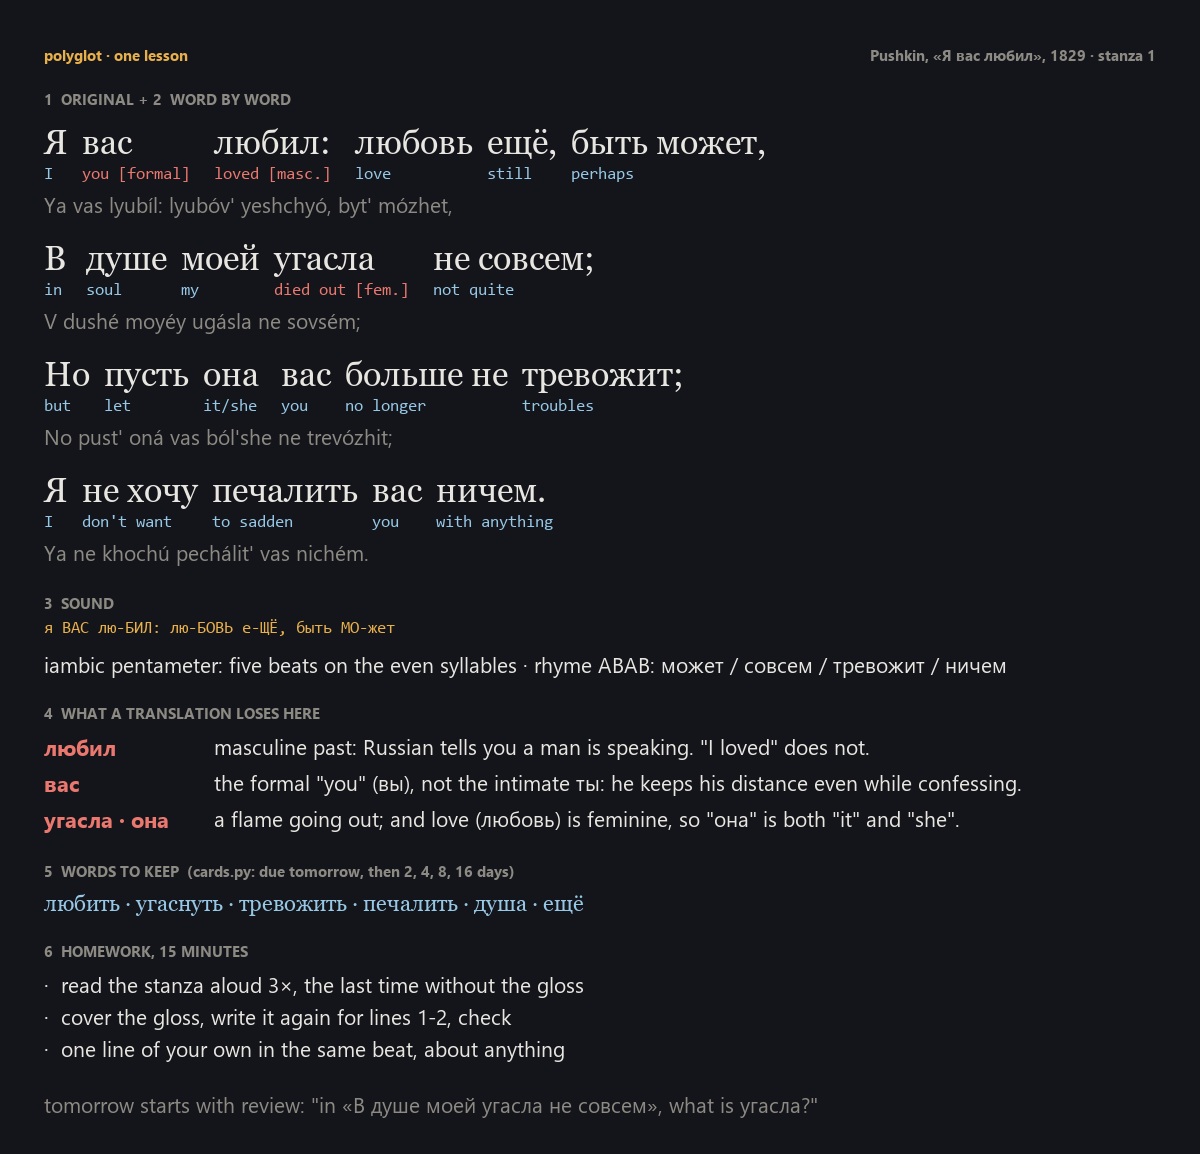
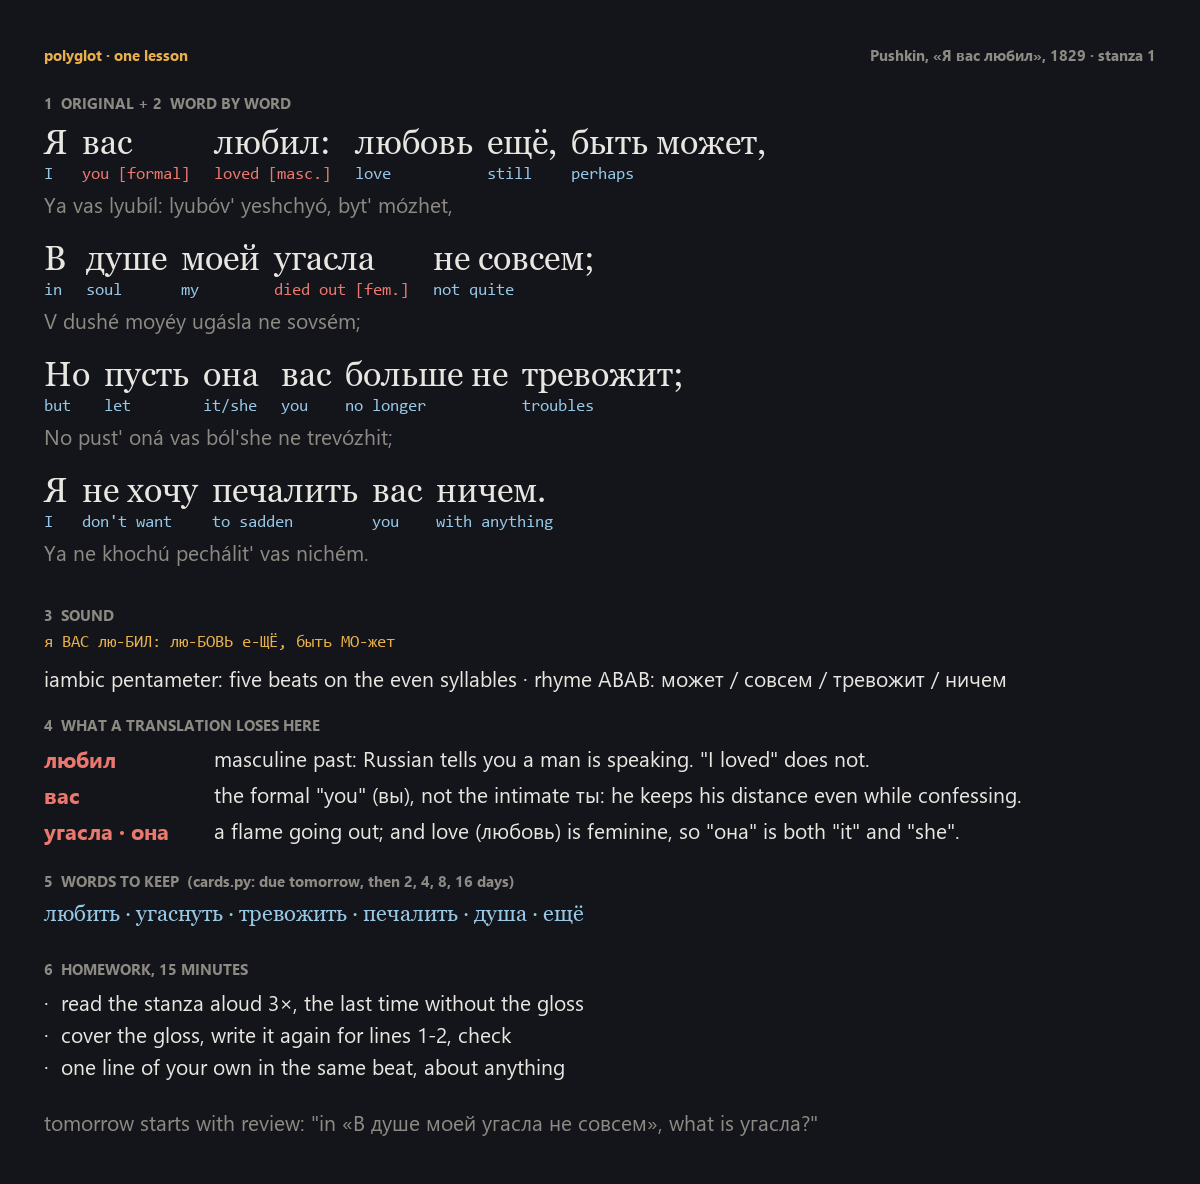
polyglot: make_card renders any lesson JSON, kind poem or skill
skill = music, code, maths: one small thing, what the hands do, what breaks for a beginner and why, cards to keep (1, 2, 4, 8, 16 days), 15-minute homework, tomorrow's review line. Text wraps inside the card; unknown kind is an error. Pushkin moved to pushkin_card.json, guitar C->Am draft example added. 6 new tests, red before render().

Claude-Session: https://claude.ai/code/session_01BgXyzoFJR4cXkBkuYX1Kmq

Changed region(s): [[0.0308, 0.0312, 0.8633, 0.9671], [0.74, 0.0312, 0.9558, 0.0624], [0.37, 0.1872, 0.4933, 0.2496]]

diff --git a/polyglot/example/make_card.py b/polyglot/example/make_card.py
@@ -1,12 +1,25 @@
-"""Render example/pushkin_lesson.png: one polyglot lesson on the first stanza of Pushkin's «Я вас любил» (1829).
-    pip install pillow ; python example/make_card.py
+"""Render one polyglot lesson as a picture, from a lesson JSON.
+
+    pip install pillow
+    python example/make_card.py                       # both examples: pushkin_lesson.png, guitar_lesson.png
+    python example/make_card.py my_lesson.json -o out.png
+
+kind "poem": the original + word by word, sound, what a translation loses, words to keep, homework.
+kind "skill" (music, code, maths): 1 one small thing, 2 how it feels / sounds / looks (what the hands do),
+3 what usually breaks for a beginner and why, 4 what to keep (cards.py: tomorrow, then 2, 4, 8, 16 days),
+5 homework, 15 minutes; then "tomorrow starts with review". A skill lesson's "cards" have the fields cards.py reads.
 """
+import argparse
+import json
 import os
+import sys
+
 from PIL import Image, ImageDraw, ImageFont
 
 HERE = os.path.dirname(os.path.abspath(__file__))
 W, PAD = 1200, 44
 BG, FG, DIM, ACC, GLS, RED = (20, 21, 27), (232, 230, 224), (140, 138, 130), (232, 176, 74), (150, 200, 230), (235, 120, 110)
+LAST_WIDTHS = []                       # the width of every line drawn by the last render (the tests read it)
 
 
 def font(names, size):
@@ -25,77 +38,122 @@ SANS_B = font(["segoeuib.ttf", "DejaVuSans-Bold.ttf"], 22)
 MONO = font(["consola.ttf", "DejaVuSansMono.ttf"], 17)
 HEAD = font(["segoeuib.ttf", "DejaVuSans-Bold.ttf"], 15)
 
-STANZA = [
-    [("Я", "I"), ("вас", "you [formal]"), ("любил:", "loved [masc.]"), ("любовь", "love"), ("ещё,", "still"),
-     ("быть может,", "perhaps")],
-    [("В", "in"), ("душе", "soul"), ("моей", "my"), ("угасла", "died out [fem.]"), ("не совсем;", "not quite")],
-    [("Но", "but"), ("пусть", "let"), ("она", "it/she"), ("вас", "you"), ("больше не", "no longer"), ("тревожит;", "troubles")],
-    [("Я", "I"), ("не хочу", "don't want"), ("печалить", "to sadden"), ("вас", "you"), ("ничем.", "with anything")],
-]
-TRANSLIT = ["Ya vas lyubíl: lyubóv' yeshchyó, byt' mózhet,", "V dushé moyéy ugásla ne sovsém;",
-            "No pust' oná vas ból'she ne trevózhit;", "Ya ne khochú pechálit' vas nichém."]
-LOSES = [
-    ("любил", "masculine past: Russian tells you a man is speaking. \"I loved\" does not."),
-    ("вас", "the formal \"you\" (вы), not the intimate ты: he keeps his distance even while confessing."),
-    ("угасла · она", "a flame going out; and love (любовь) is feminine, so \"она\" is both \"it\" and \"she\"."),
-]
-CARDS = "любить · угаснуть · тревожить · печалить · душа · ещё"
-HOMEWORK = ["read the stanza aloud 3×, the last time without the gloss",
-            "cover the gloss, write it again for lines 1-2, check",
-            "one line of your own in the same beat, about anything"]
+
+class Pen:
+    """Draws top to bottom, wraps every text to the card's width, and logs what it wrote."""
+
+    def __init__(self, d):
+        self.d, self.y, self.log = d, PAD, []
+
+    def text(self, s, f, fill, x=PAD, dy=32, right=W - PAD):
+        words, line, lines = s.split(" "), "", []
+        for w in words:
+            if line and self.d.textlength(line + " " + w, font=f) > right - x:
+                lines.append(line)
+                line = w
+            else:
+                line = w if not line else line + " " + w           # keeps runs of spaces (chord notation)
+        lines.append(line)
+        for ln in lines:
+            self.d.text((x, self.y), ln, font=f, fill=fill)
+            LAST_WIDTHS.append(x + self.d.textlength(ln, font=f))
+            self.log.append(ln)
+            self.y += dy
+        return len(lines)
+
+    def head(self, s):
+        self.y += 18
+        self.text(s, HEAD, DIM, dy=30)
 
 
-def main():
-    img = Image.new("RGB", (W, 1500), BG)
-    d = ImageDraw.Draw(img)
-    y = PAD
-    d.text((PAD, y), "polyglot · one lesson", font=HEAD, fill=ACC)
-    d.text((W - PAD, y), "Pushkin, «Я вас любил», 1829 · stanza 1", font=HEAD, fill=DIM, anchor="ra")
-    y += 44
-    d.text((PAD, y), "1  ORIGINAL + 2  WORD BY WORD", font=HEAD, fill=DIM)
-    y += 34
-    for line, tr in zip(STANZA, TRANSLIT):
+def _top(p, lesson):
+    p.d.text((PAD, p.y), lesson.get("tag", "polyglot · one lesson"), font=HEAD, fill=ACC)
+    p.d.text((W - PAD, p.y), lesson.get("source", ""), font=HEAD, fill=DIM, anchor="ra")
+    p.log += [lesson.get("tag", ""), lesson.get("source", "")]
+    p.y += 30
+
+
+def _poem(p, L):
+    p.head("1  ORIGINAL + 2  WORD BY WORD")
+    for line, tr in zip(L["lines"], L["translit"]):
         x = PAD
         for word, gloss in line:
-            ww = max(d.textlength(word + " ", font=SERIF), d.textlength(gloss + "  ", font=MONO))
-            d.text((x, y), word, font=SERIF, fill=FG)
-            d.text((x, y + 44), gloss, font=MONO, fill=RED if "[" in gloss else GLS)
+            ww = max(p.d.textlength(word + " ", font=SERIF), p.d.textlength(gloss + "  ", font=MONO))
+            p.d.text((x, p.y), word, font=SERIF, fill=FG)
+            p.d.text((x, p.y + 44), gloss, font=MONO, fill=RED if "[" in gloss else GLS)
             x += ww + 6
-        d.text((PAD, y + 68), tr, font=SANS, fill=DIM)
-        y += 116
-    y += 6
-    d.text((PAD, y), "3  SOUND", font=HEAD, fill=DIM)
-    y += 28
-    d.text((PAD, y), "я ВАС лю-БИЛ: лю-БОВЬ е-ЩЁ, быть МО-жет", font=MONO, fill=ACC)
-    y += 30
-    d.text((PAD, y), "iambic pentameter: five beats on the even syllables · rhyme ABAB: может / совсем / тревожит / ничем",
-           font=SANS, fill=FG)
-    y += 52
-    d.text((PAD, y), "4  WHAT A TRANSLATION LOSES HERE", font=HEAD, fill=DIM)
-    y += 30
-    for word, why in LOSES:
-        d.text((PAD, y), word, font=SANS_B, fill=RED)
-        d.text((PAD + 170, y), why, font=SANS, fill=FG)
-        y += 36
-    y += 20
-    d.text((PAD, y), "5  WORDS TO KEEP  (cards.py: due tomorrow, then 2, 4, 8, 16 days)", font=HEAD, fill=DIM)
-    y += 30
-    d.text((PAD, y), CARDS, font=SERIF_S, fill=GLS)
-    y += 50
-    d.text((PAD, y), "6  HOMEWORK, 15 MINUTES", font=HEAD, fill=DIM)
-    y += 30
-    for h in HOMEWORK:
-        d.text((PAD, y), "·  " + h, font=SANS, fill=FG)
-        y += 32
-    y += 24
-    d.text((PAD, y), "tomorrow starts with review: \"in «В душе моей угасла не совсем», what is угасла?\"",
-           font=SANS, fill=DIM)
-    y += PAD + 20
-    img = img.crop((0, 0, W, y))
-    out = os.path.join(HERE, "pushkin_lesson.png")
-    img.save(out)
-    print(out, img.size)
+        LAST_WIDTHS.append(x)
+        p.log.append(" ".join(w for w, _ in line))
+        p.y += 68
+        p.text(tr, SANS, DIM, dy=48)
+    p.head("3  SOUND")
+    p.text(L["sound"][0], MONO, ACC, dy=30)
+    p.text(L["sound"][1], SANS, FG)
+    p.head("4  WHAT A TRANSLATION LOSES HERE")
+    for word, why in L["loses"]:
+        top = p.y
+        p.d.text((PAD, top), word, font=SANS_B, fill=RED)
+        p.text(why, SANS, FG, x=PAD + 170, dy=36)
+    p.head("5  WORDS TO KEEP  (cards.py: due tomorrow, then 2, 4, 8, 16 days)")
+    p.text(L["keep"], SERIF_S, GLS, dy=40)
+    p.head("6  HOMEWORK, 15 MINUTES")
+    for h in L["homework"]:
+        p.text("·  " + h, SANS, FG)
+
+
+def _skill(p, L):
+    p.head("1  ONE SMALL THING")
+    p.text(L["thing"], SERIF_S, FG, dy=36)
+    if L.get("notation"):
+        p.text(L["notation"], MONO, ACC, dy=28)
+    p.head("2  HOW IT FEELS · WHAT THE HANDS DO")
+    for f in L["feel"]:
+        p.text("·  " + f, SANS, FG)
+    p.head("3  WHAT USUALLY BREAKS, AND WHY")
+    for what, why in L["breaks"]:
+        p.d.text((PAD, p.y), what, font=SANS_B, fill=RED)
+        p.log.append(what)
+        p.text(why, SANS, FG, x=PAD + 230, dy=34)
+    p.head("4  TO KEEP  (cards.py: review after 1, 2, 4, 8, 16 days)")
+    for c in L["cards"]:
+        p.d.text((PAD, p.y), c["word"], font=SANS_B, fill=GLS)
+        p.log.append(c["word"])
+        p.text(c["meaning"], SANS, FG, x=PAD + 230, dy=34)
+    p.head("5  HOMEWORK, 15 MINUTES")
+    for h in L["homework"]:
+        p.text("·  " + h, SANS, FG)
+
+
+def render(lesson):
+    """(image, log of every line written). kind must be poem or skill."""
+    kind = lesson.get("kind", "poem")
+    if kind not in ("poem", "skill"):
+        raise ValueError(f"kind must be poem or skill, not {kind!r}")
+    LAST_WIDTHS.clear()
+    img = Image.new("RGB", (W, 2400), BG)
+    p = Pen(ImageDraw.Draw(img))
+    _top(p, lesson)
+    (_poem if kind == "poem" else _skill)(p, lesson)
+    p.y += 24
+    p.text(f"tomorrow starts with review: \"{lesson['tomorrow']}\"", SANS, DIM)
+    return img.crop((0, 0, W, p.y + PAD)), p.log
+
+
+def main(argv=None):
+    ap = argparse.ArgumentParser(description=__doc__.splitlines()[0])
+    ap.add_argument("lesson", nargs="?", help="lesson JSON (default: both examples)")
+    ap.add_argument("-o", "--output")
+    a = ap.parse_args(argv)
+    jobs = [(a.lesson, a.output or os.path.splitext(a.lesson)[0] + ".png")] if a.lesson else [
+        (os.path.join(HERE, "pushkin_card.json"), os.path.join(HERE, "pushkin_lesson.png")),
+        (os.path.join(HERE, "guitar_card.json"), os.path.join(HERE, "guitar_lesson.png"))]
+    for src, out in jobs:
+        with open(src, encoding="utf-8") as f:
+            img, _ = render(json.load(f))
+        img.save(out)
+        print(out, img.size)
+    return 0
 
 
 if __name__ == "__main__":
-    main()
+    sys.exit(main())

diff --git a/polyglot/tests/test_make_card.py b/polyglot/tests/test_make_card.py
@@ -1,0 +1,61 @@
+"""make_card: one lesson picture from a lesson JSON, kind poem or skill (music, code, maths). Red before 'kind'."""
+import json
+import os
+import subprocess
+import sys
+import tempfile
+import unittest
+
+HERE = os.path.dirname(os.path.abspath(__file__))
+EX = os.path.join(os.path.dirname(HERE), "example")
+sys.path.insert(0, EX)
+import make_card as mc  # noqa: E402
+
+
+def load(name):
+    with open(os.path.join(EX, name), encoding="utf-8") as f:
+        return json.load(f)
+
+
+class Card(unittest.TestCase):
+    def test_a_skill_lesson_has_the_five_blocks_in_order_and_tomorrows_review(self):
+        img, log = mc.render(load("guitar_card.json"))
+        heads = [t for t in log if t[:2] in ("1 ", "2 ", "3 ", "4 ", "5 ")]
+        self.assertEqual([h[:1] for h in heads], ["1", "2", "3", "4", "5"])
+        self.assertIn("ONE SMALL THING", heads[0])
+        self.assertIn("BREAKS", heads[2])
+        self.assertIn("1, 2, 4, 8, 16", heads[3])
+        self.assertTrue(any(t.startswith("tomorrow starts with review") for t in log))
+        self.assertGreater(img.size[1], 400)
+
+    def test_the_poem_lesson_still_renders_from_its_json(self):
+        img, log = mc.render(load("pushkin_card.json"))
+        self.assertTrue(any("WORD BY WORD" in t for t in log))
+        self.assertTrue(any("WHAT A TRANSLATION LOSES" in t for t in log))
+
+    def test_long_text_wraps_inside_the_card(self):
+        lesson = load("guitar_card.json")
+        lesson["breaks"][0][1] = "a very long reason " * 30
+        img, log = mc.render(lesson)
+        self.assertTrue(all(w <= mc.W - mc.PAD for w in mc.LAST_WIDTHS), max(mc.LAST_WIDTHS))
+
+    def test_an_unknown_kind_is_an_error(self):
+        with self.assertRaises(ValueError):
+            mc.render({"kind": "dance"})
+
+    def test_the_cards_of_a_skill_lesson_feed_cards_py(self):
+        lesson = load("guitar_card.json")
+        for c in lesson["cards"]:
+            self.assertTrue({"word", "lemma", "meaning", "line"} <= set(c))
+
+    def test_the_command_line_writes_the_png(self):
+        with tempfile.TemporaryDirectory() as d:
+            out = os.path.join(d, "card.png")
+            r = subprocess.run([sys.executable, os.path.join(EX, "make_card.py"), os.path.join(EX, "guitar_card.json"),
+                                "-o", out], capture_output=True, text=True)
+            self.assertEqual(r.returncode, 0, r.stderr)
+            self.assertTrue(os.path.getsize(out) > 1000)
+
+
+if __name__ == "__main__":
+    unittest.main()
